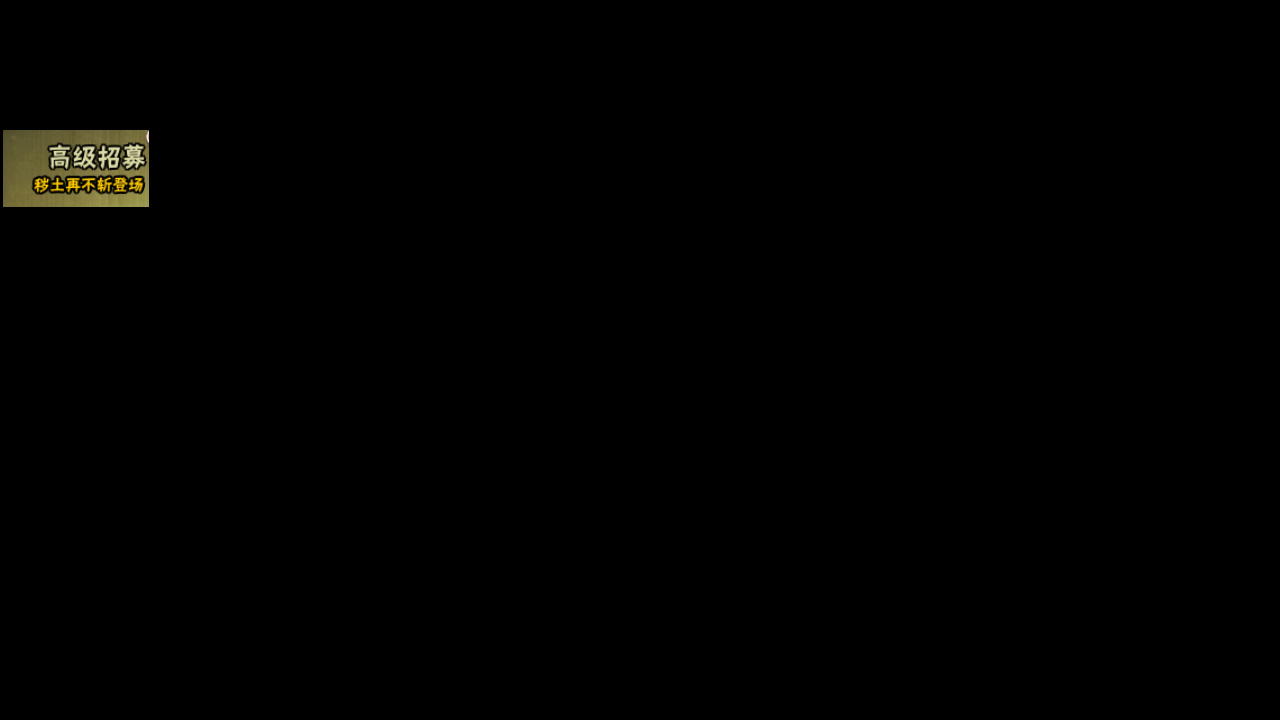
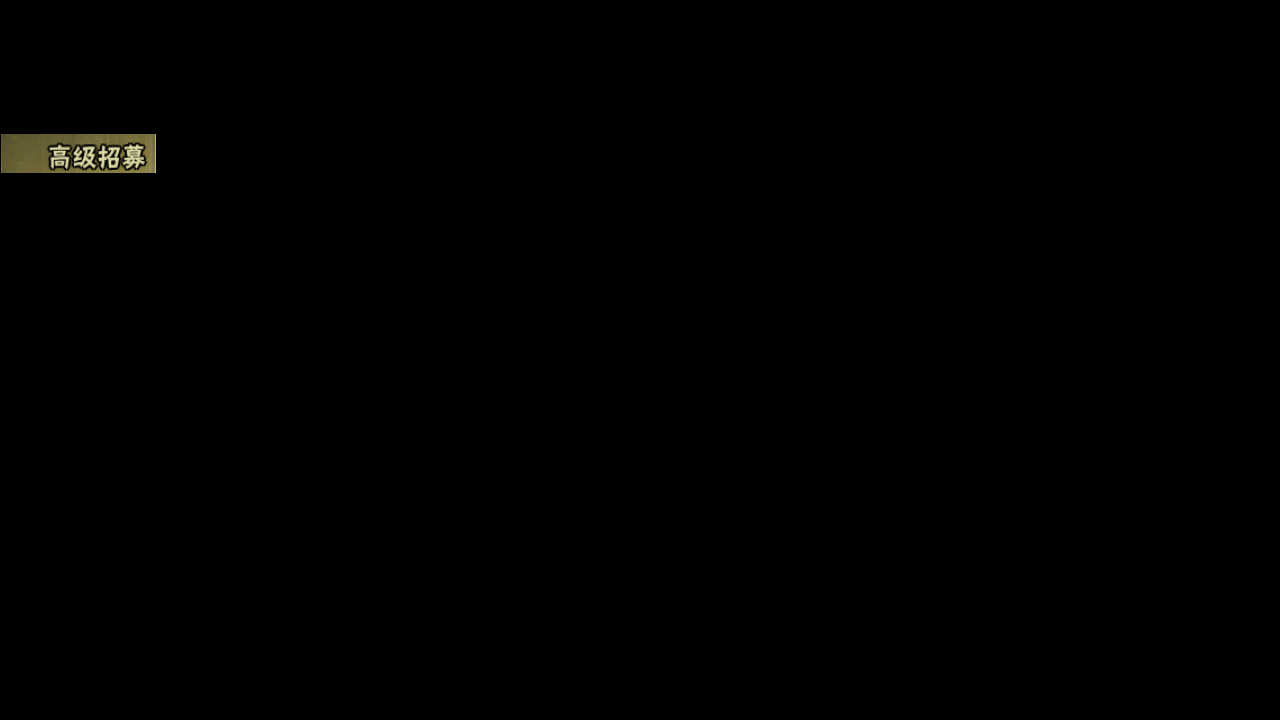
优化招募按钮识别，优化体力扫荡过程，去掉不必要的步骤

Changed region(s): [[0.0, 0.1833, 0.125, 0.3056]]

diff --git a/tasks/tili/equipment.py b/tasks/tili/equipment.py
@@ -33,7 +33,6 @@ class Equipment(UI):
                 self.ui_ensure(page_equipment)
                 self.device.click(EQUIPMENT_KNIFE)
                 self._select_equipment_part()
-                self._stuff_material_check()
                 res=self._start_sweep()
                 self.ui_ensure(page_equipment)
                 self._synthesized_and_equipped()
@@ -168,29 +167,7 @@ class Equipment(UI):
                 return res
         return False
 
-    def _stuff_material_check(self):
-        time = Timer(20, count=30).start()
-        for _ in self.loop():
-            if time.reached():
-                raise GameStuckError('Equipment Advance Stuff Part 1 Stuck')
-            ocr = StuffOcr(STUFF_PART_1)
-            current, remain, total = ocr.ocr_single_line(self.device.image)
-            if total > 0 and remain > 0:
-                self.device.click(STUFF_PART_1)
-                return True
-            elif total > 0 >= remain:
-                break
-        for _ in self.loop():
-            if time.reached():
-                raise GameStuckError('Equipment Advance Stuff Part 1 Stuck')
-            ocr = StuffOcr(STUFF_PART_2)
-            current, remain, total = ocr.ocr_single_line(self.device.image)
-            if total > 0 and remain > 0:
-                self.device.click(STUFF_PART_2)
-                return True
-            elif total > 0 >= remain:
-                break
-        return False
+
 
     def _start_sweep(self):
         time = Timer(60, count=60).start()

diff --git a/tasks/recruit/assets/assets_recruit_ui.py b/tasks/recruit/assets/assets_recruit_ui.py
@@ -27,20 +27,20 @@ PREMIUM_RECRUIT_CHECK = ButtonWrapper(
     name='PREMIUM_RECRUIT_CHECK',
     share=Button(
         file='./assets/share/recruit/ui/PREMIUM_RECRUIT_CHECK.png',
-        area=(0, 125, 149, 174),
-        search=(0, 105, 169, 194),
-        color=(167, 153, 109),
-        button=(0, 125, 149, 174),
+        area=(2, 127, 155, 173),
+        search=(0, 107, 175, 193),
+        color=(172, 158, 116),
+        button=(2, 127, 155, 173),
     ),
 )
 PREMIUM_RECRUIT_CLICK = ButtonWrapper(
     name='PREMIUM_RECRUIT_CLICK',
     share=Button(
         file='./assets/share/recruit/ui/PREMIUM_RECRUIT_CLICK.png',
-        area=(3, 130, 149, 207),
-        search=(0, 110, 169, 227),
-        color=(111, 103, 53),
-        button=(3, 130, 149, 207),
+        area=(1, 134, 156, 173),
+        search=(0, 114, 176, 193),
+        color=(109, 104, 65),
+        button=(1, 134, 156, 173),
     ),
 )
 RECRUIT_LIMITED_RETURN_CHECK = ButtonWrapper(

diff --git a/tasks/tili/assets/assets_tili_equipment.py b/tasks/tili/assets/assets_tili_equipment.py
@@ -408,10 +408,10 @@ STUFF_SYNTHETIC_BUTTON = ButtonWrapper(
     name='STUFF_SYNTHETIC_BUTTON',
     cn=Button(
         file='./assets/cn/tili/equipment/STUFF_SYNTHETIC_BUTTON.png',
-        area=(734, 529, 923, 592),
-        search=(714, 509, 943, 612),
-        color=(237, 166, 8),
-        button=(734, 529, 923, 592),
+        area=(337, 525, 531, 599),
+        search=(317, 505, 551, 619),
+        color=(201, 137, 24),
+        button=(337, 525, 531, 599),
     ),
     en=None,
 )

diff --git a/tasks/recruit/assets/assets_recruit.py b/tasks/recruit/assets/assets_recruit.py
@@ -73,10 +73,10 @@ PREMIUM_RECRUIT_FREE_DONE = ButtonWrapper(
     name='PREMIUM_RECRUIT_FREE_DONE',
     cn=Button(
         file='./assets/cn/recruit/PREMIUM_RECRUIT_FREE_DONE.png',
-        area=(788, 540, 944, 608),
-        search=(768, 520, 964, 628),
-        color=(95, 90, 52),
-        button=(788, 540, 944, 608),
+        area=(796, 548, 939, 601),
+        search=(776, 528, 959, 621),
+        color=(103, 97, 56),
+        button=(796, 548, 939, 601),
     ),
     en=None,
 )

diff --git a/tasks/base/assets/assets_base_page.py b/tasks/base/assets/assets_base_page.py
@@ -115,6 +115,16 @@ FIGHT_CLOSE_CONFIRM = ButtonWrapper(
         ),
     ],
 )
+FULL_SCREEN = ButtonWrapper(
+    name='FULL_SCREEN',
+    share=Button(
+        file='./assets/share/base/page/FULL_SCREEN.png',
+        area=(0, 0, 1280, 720),
+        search=(0, 0, 1280, 720),
+        color=(92, 108, 92),
+        button=(0, 0, 1280, 720),
+    ),
+)
 JI_FEN_SAI_CHECK = ButtonWrapper(
     name='JI_FEN_SAI_CHECK',
     share=Button(
